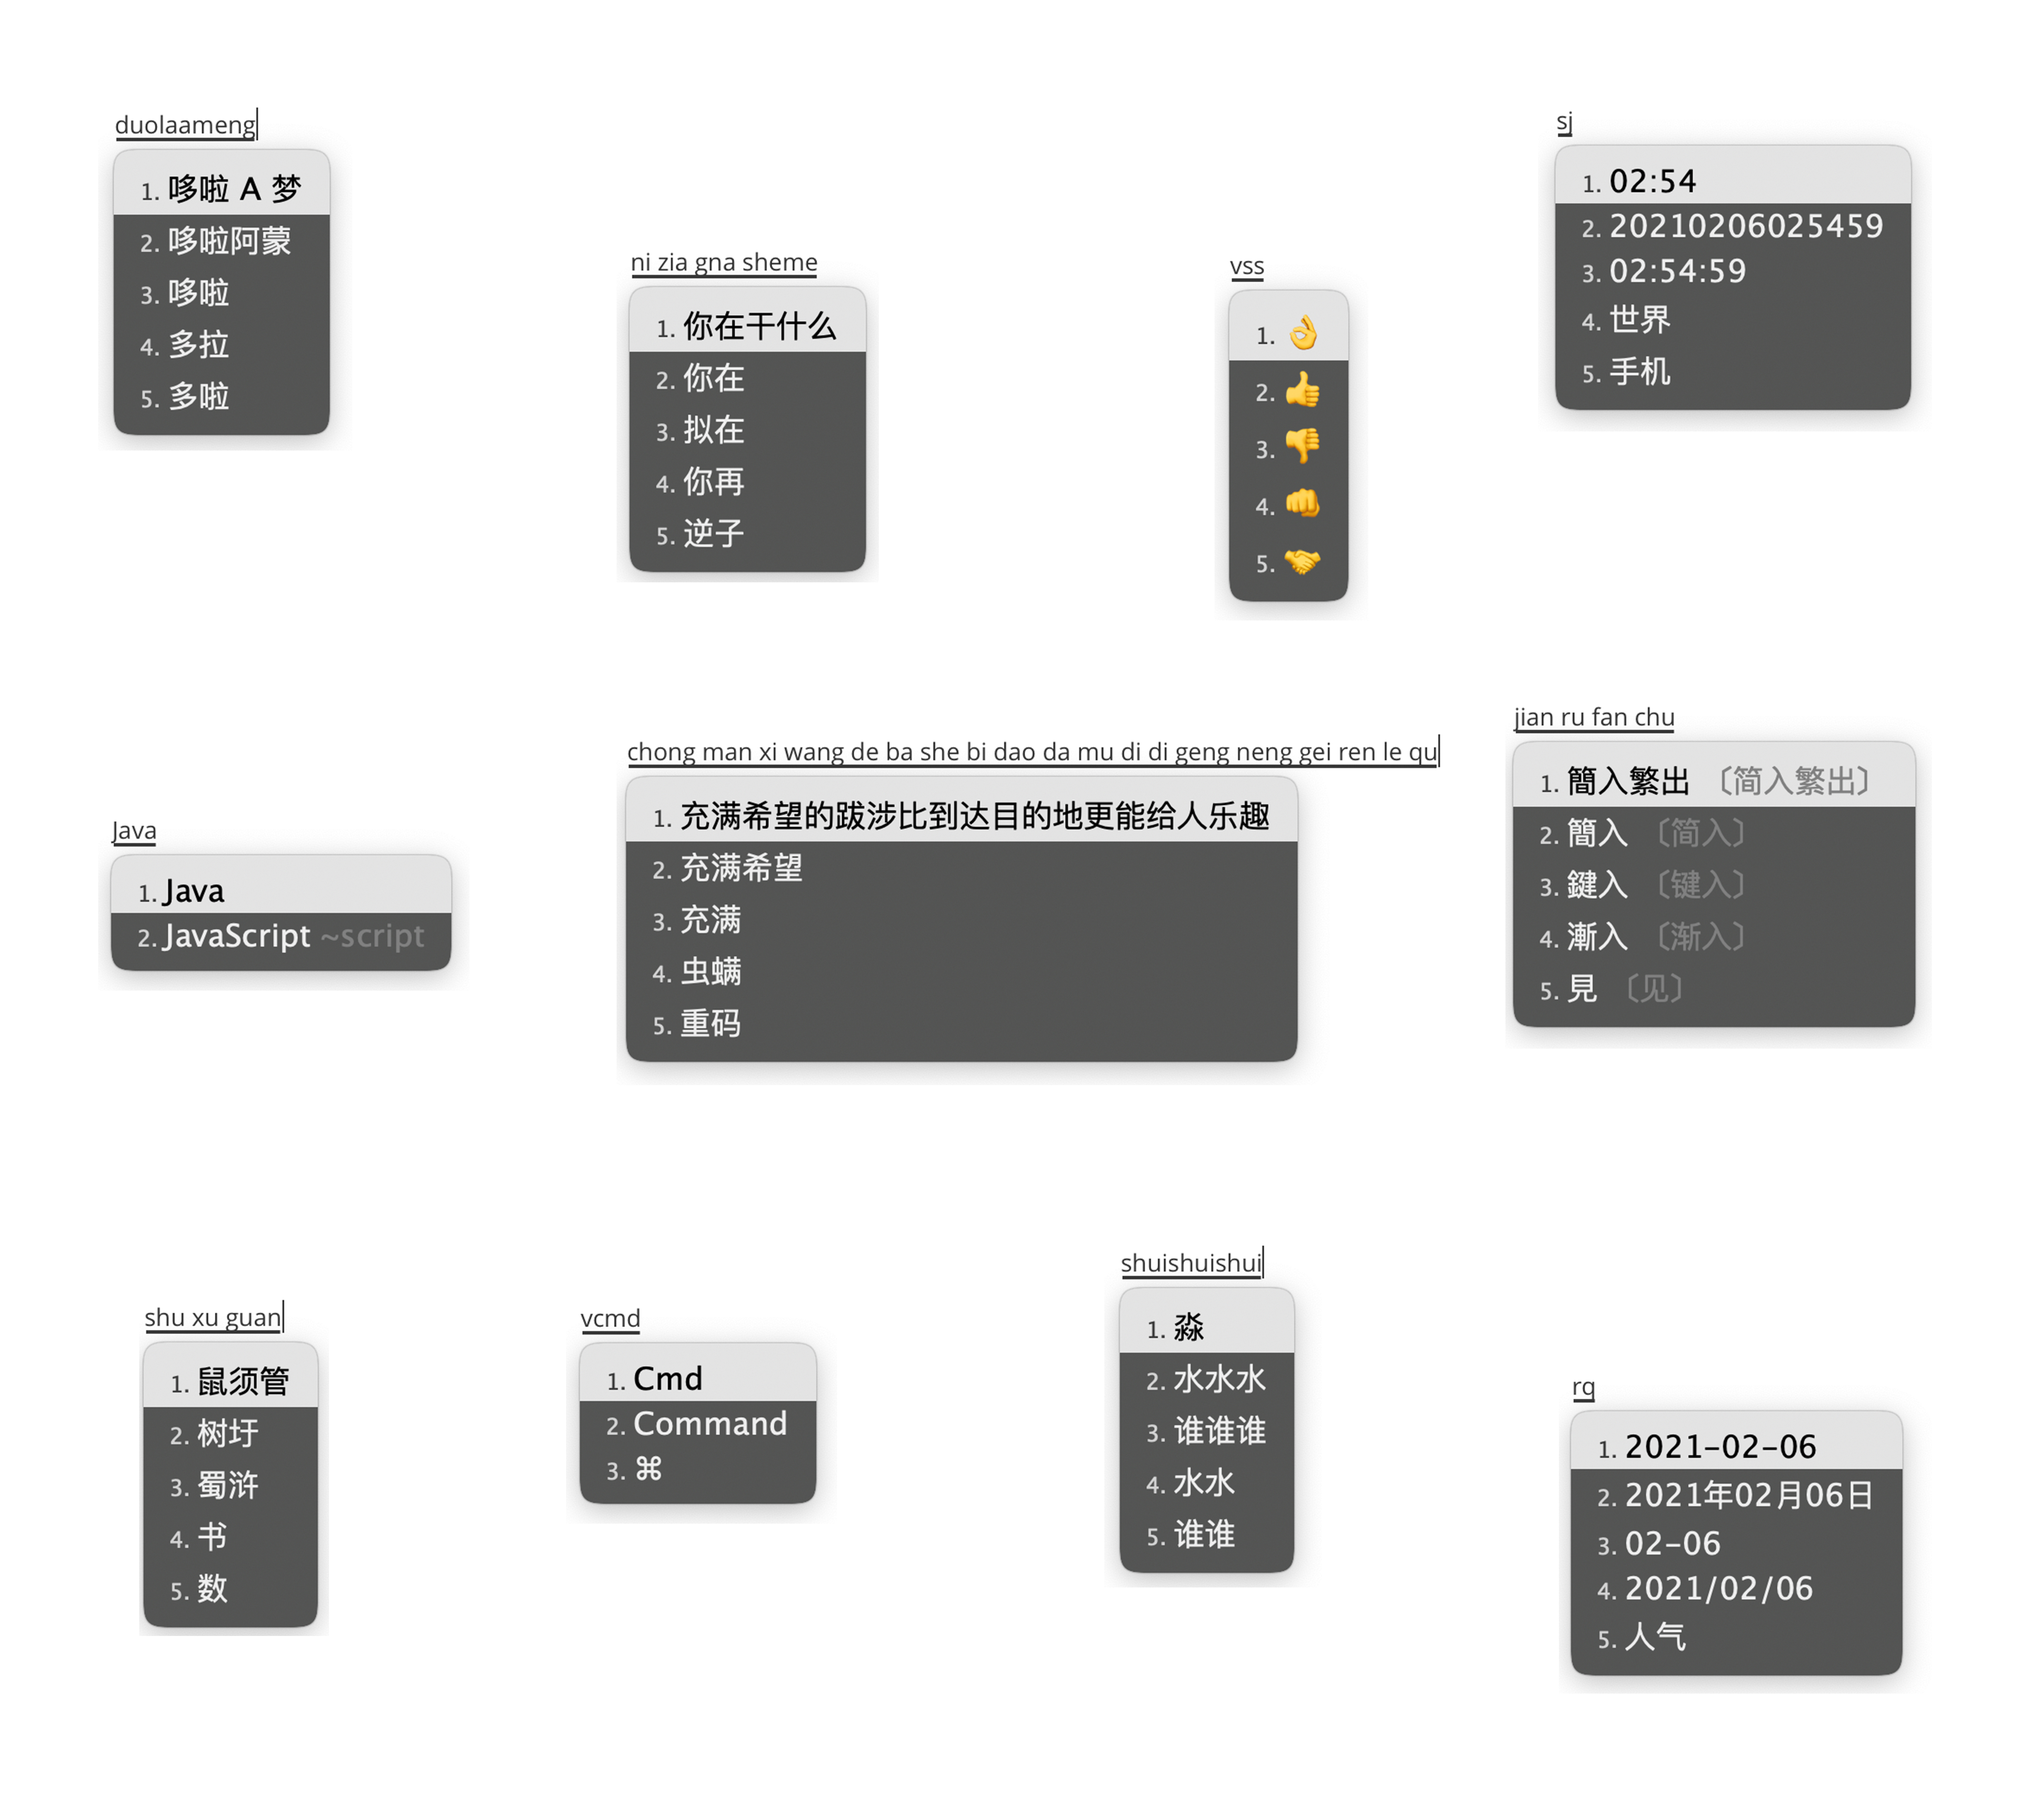
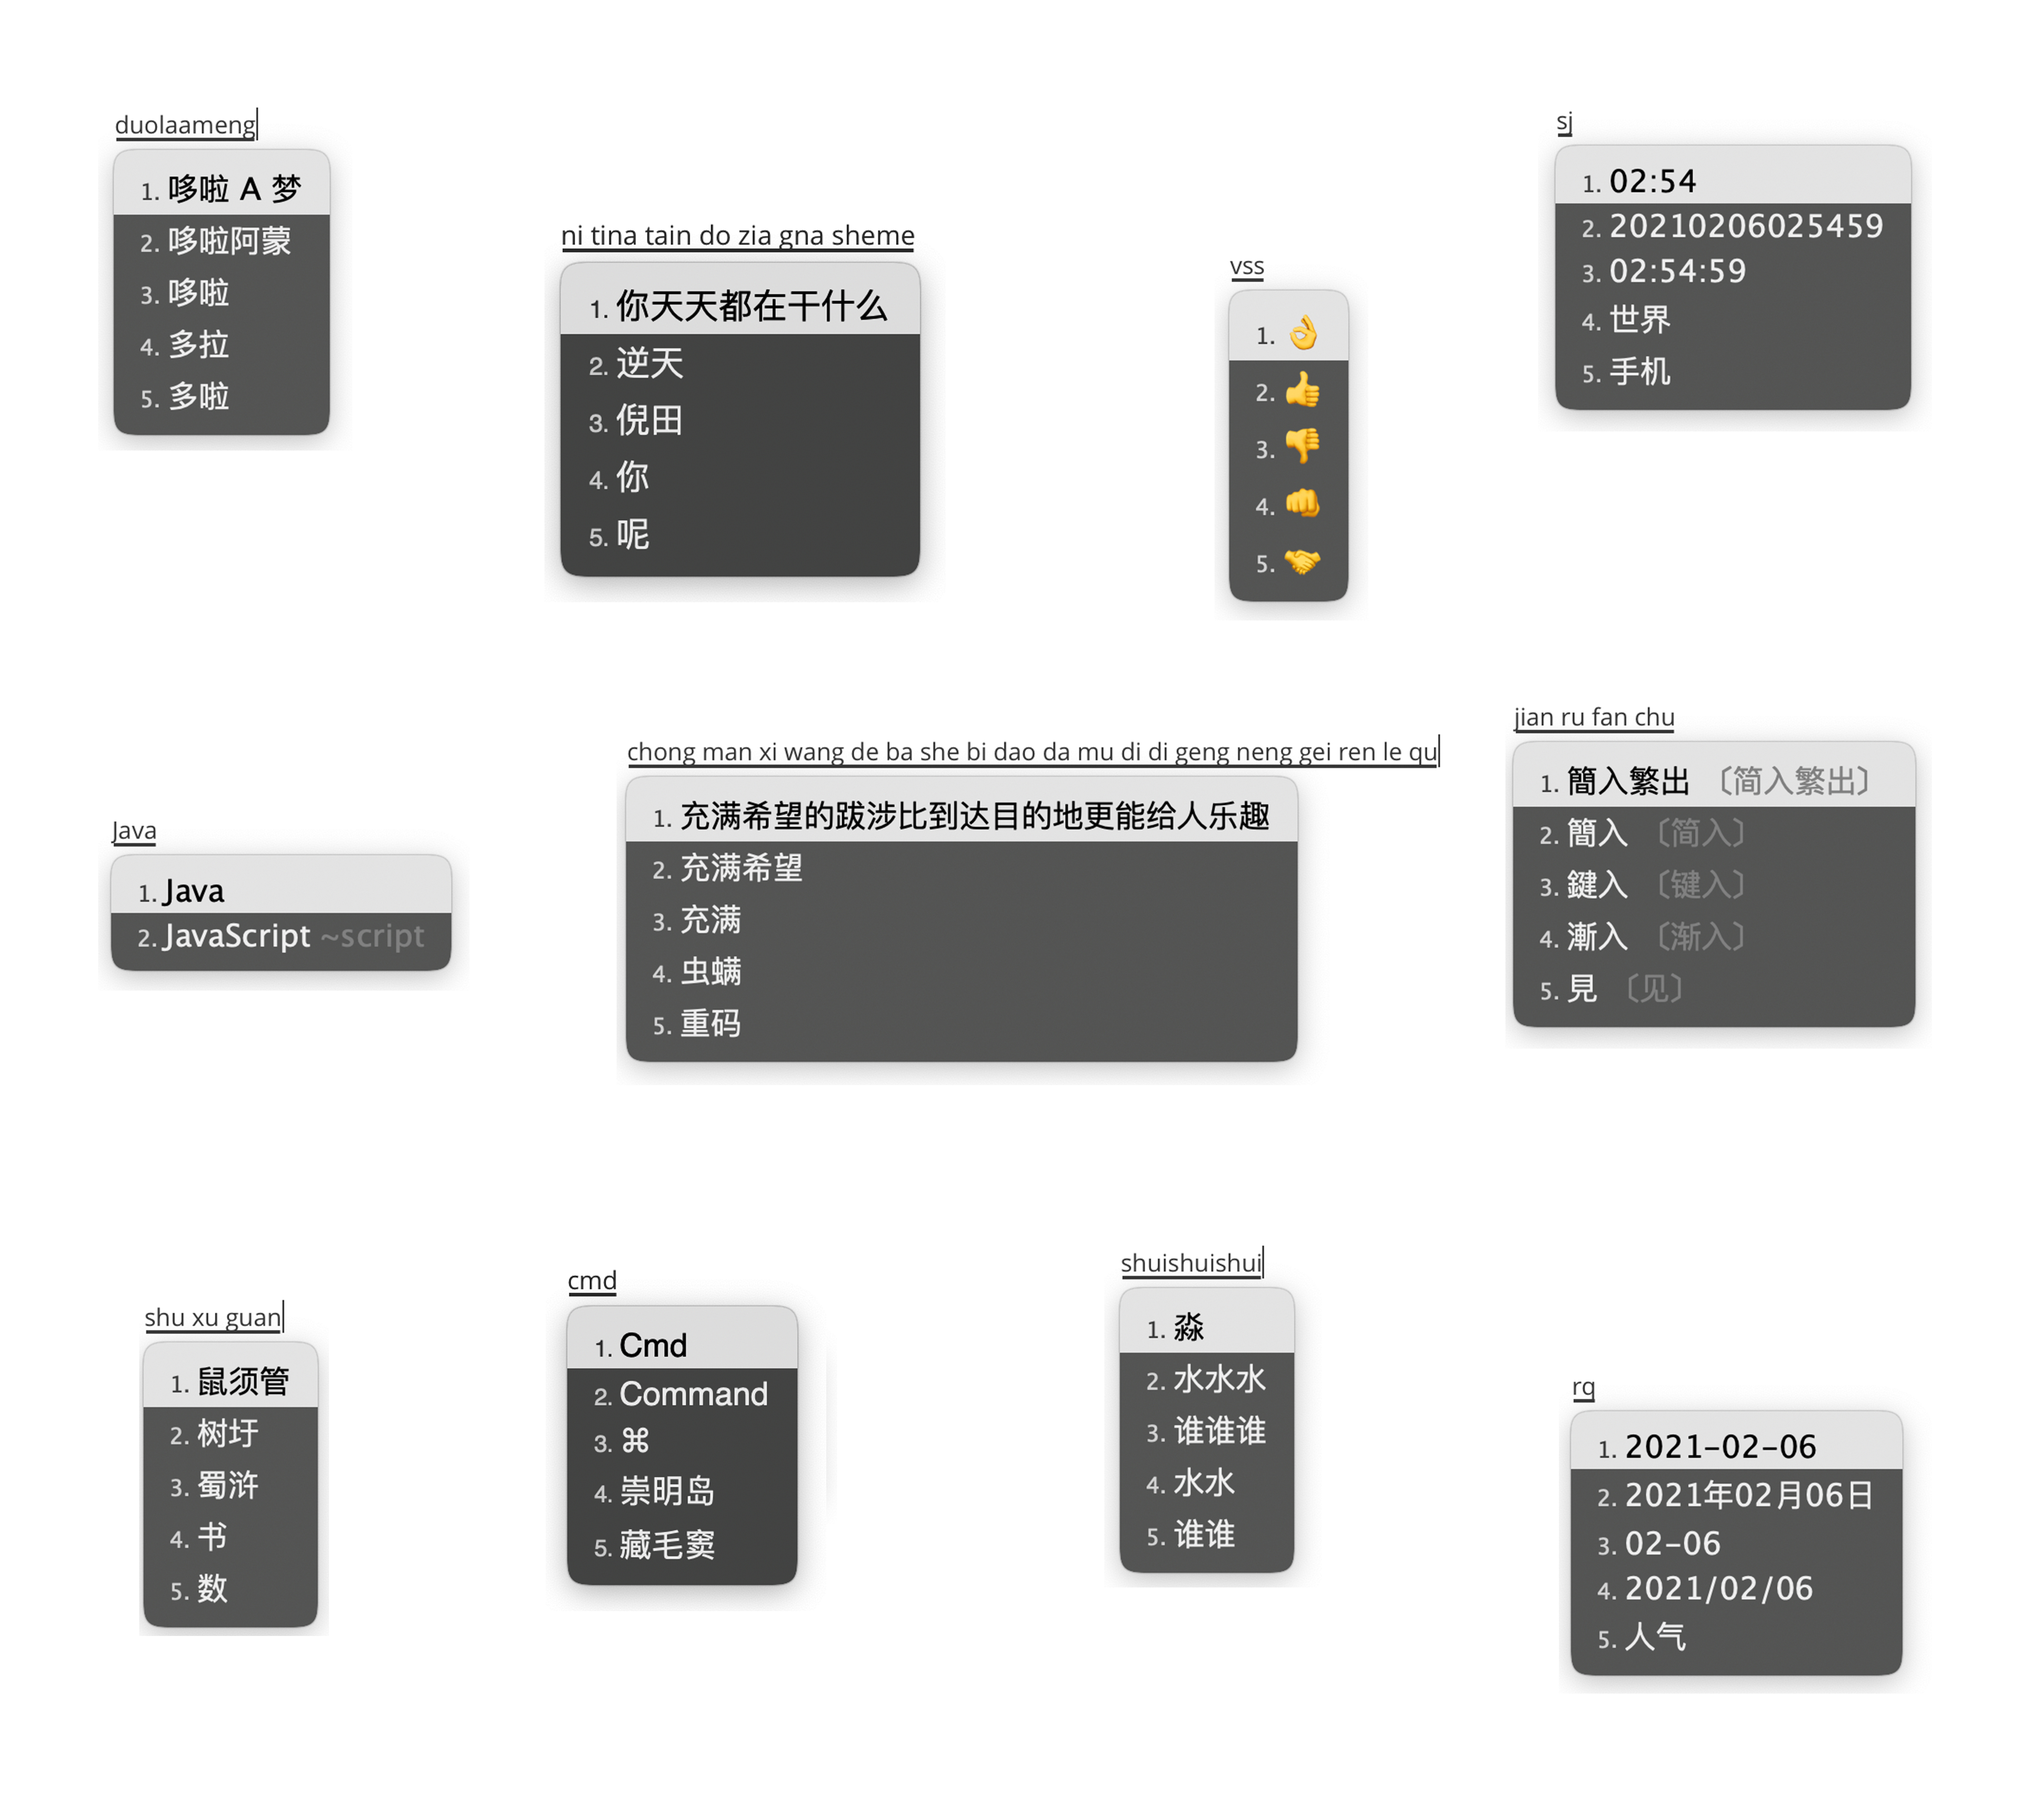
update README.md

Changed region(s): [[0.2491, 0.1247, 0.467, 0.343], [0.2491, 0.6859, 0.4048, 0.9042]]

diff --git a/README.md b/README.md
@@ -7,19 +7,21 @@
 ## 基本套路：
 
 -   Squirrel 0.15.0 简中全拼
--   袖珍简化字方案 [rime](https://github.com/rime)/**[rime-pinyin-simp](https://github.com/rime/rime-pinyin-simp)**
--   8105 简体字，去除大量生僻字 [placeless](https://github.com/placeless)/**[squirrel_config](https://github.com/placeless/squirrel_config)**
--   简型八股文长句模型 [lotem](https://github.com/lotem)/**[rime-octagram-data/tree/hans](https://github.com/lotem/rime-octagram-data/tree/hans)**
+-   0.15.0 后 `charset_filter@gb2312`失效，放弃了朙月拼音方案，直接使用袖珍简化字方案 [rime](https://github.com/rime)/**[rime-pinyin-simp](https://github.com/rime/rime-pinyin-simp)**
+-   8105 简体字，去除大量生僻字 [placeless](https://github.com/placeless)/**[squirrel_config](https://github.com/placeless/squirrel_config)** （太太太太感谢了！要没这个我还在用 0.14.0）
+-   简型八股文模型 [lotem](https://github.com/lotem)/**[rime-octagram-data/tree/hans](https://github.com/lotem/rime-octagram-data/tree/hans)**
 -   英文输入方案 Easy English Nano [mityliu](https://github.com/mityliu)/**[rime-custom](https://github.com/mityliu/rime-custom)**
 -   中英混输词库 <瑾昀 <cokunhui@gmail.com>>
--   简入繁出 [rime/home/issues#388](https://github.com/rime/home/issues/388#issuecomment-504572224) 
+-   袖珍方案输出繁体，参考了五笔的简入繁出 [rime/home/issues#388](https://github.com/rime/home/issues/388#issuecomment-504572224) 
 -   搜狗两百万词库 [liuour](https://github.com/liuour)/**[rime](https://github.com/liuour/rime)**
--   动态日期、时间 [KyleBing](https://github.com/KyleBing)/**[rime-wubi86-jidian](https://github.com/KyleBing/rime-wubi86-jidian)**
--   没有加入 emoji，但可用 “v” + 关键字调用，可自行编写自己常用的列表方案，或在 opencc 中添加 emoji 支持文件
-
+-   动态日期、时间、星期 [KyleBing](https://github.com/KyleBing)/**[rime-wubi86-jidian](https://github.com/KyleBing/rime-wubi86-jidian)**
+-   所有标点符号直接上屏，并将「/」模式改为「v」模式
+-   增加了 `opencc/` 键盘符号映射，删除了 emoji 映射，如需要 emoji 可参考  [liuour](https://github.com/liuour)/**[rime](https://github.com/liuour/rime)**
+-   symbols 改为简体字（如节气、八卦），增加一些自定义符号
+-   常用全拼自动纠错：`ni tina tain do zia gna she me` → `你天天都在干什么`
 
 
 ## 详细说明
 
-[我的 Rime 配置](https://dvel.xyz/post/30/)
+[我的 Rime 配置 2021](https://dvel.xyz/post/30/)
 
